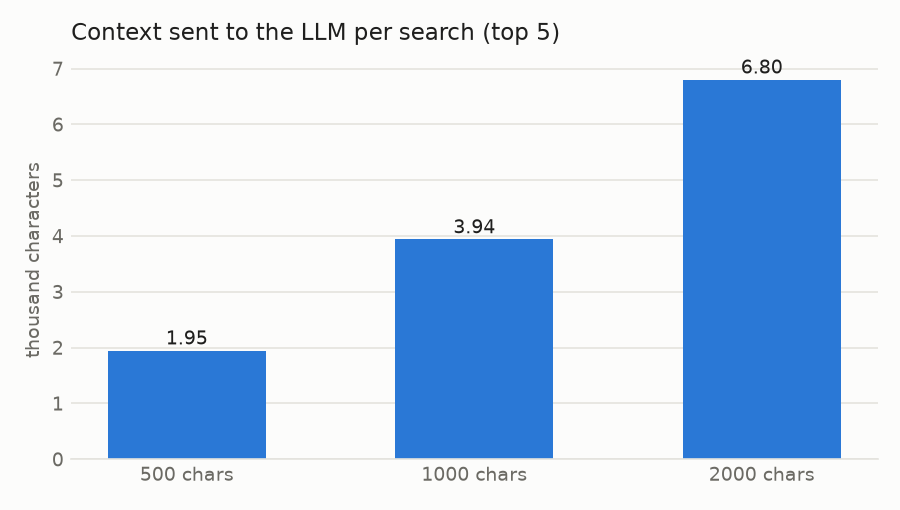
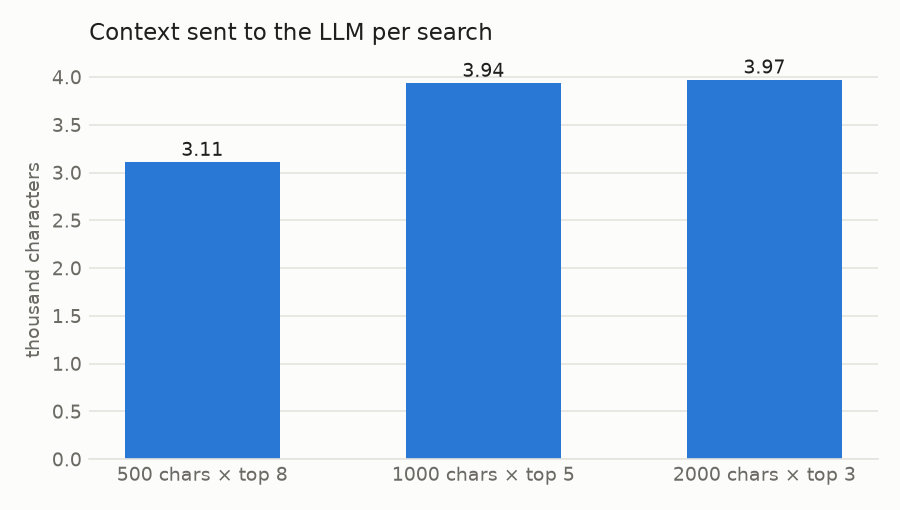
Choose chunk 500 x top-8 from retrieval experiment; equal-budget comparison

diff --git a/scripts/run_experiments.py b/scripts/run_experiments.py
@@ -3,12 +3,12 @@
 One factor is changed at a time against the baseline, so each difference can be
 attributed to that factor:
 
-    baseline     chunk 1000, rewrite loop ON,  model A
-    chunk_500    chunk  500                       (vs baseline)
-    chunk_2000   chunk 2000                       (vs baseline)
+    baseline     chunk 500 x top 8,  rewrite loop ON,  model A   (final config)
+    chunk_1000   chunk 1000 x top 5   } same context budget (~3-4k characters),
+    chunk_2000   chunk 2000 x top 3   } only the chunking differs
     no_loop      rewrite loop OFF                 (vs baseline)
     model_b      model B instead of model A       (vs baseline)
-    no_redaction redaction OFF, injection questions only (guardrail check)
+  plus an injection suite: attack success with redaction on/off, both models.
 
 Results:  results/raw/<experiment>.jsonl   one line per question (resumable)
           results/summary.csv / .md        one row per experiment
@@ -44,11 +44,11 @@ MODEL_A = "llama-3.3-70b-versatile"
 MODEL_B = "llama-3.1-8b-instant"
 
 EXPERIMENTS = {
-    "baseline":   {"chunk_size": 1000, "use_rewrite_loop": True,  "llm_model": MODEL_A},
-    "chunk_500":  {"chunk_size": 500,  "use_rewrite_loop": True,  "llm_model": MODEL_A},
-    "chunk_2000": {"chunk_size": 2000, "use_rewrite_loop": True,  "llm_model": MODEL_A},
-    "no_loop":    {"chunk_size": 1000, "use_rewrite_loop": False, "llm_model": MODEL_A},
-    "model_b":    {"chunk_size": 1000, "use_rewrite_loop": True,  "llm_model": MODEL_B},
+    "baseline":   {"chunk_size": 500,  "top_k": 8, "use_rewrite_loop": True,  "llm_model": MODEL_A},
+    "chunk_1000": {"chunk_size": 1000, "top_k": 5, "use_rewrite_loop": True,  "llm_model": MODEL_A},
+    "chunk_2000": {"chunk_size": 2000, "top_k": 3, "use_rewrite_loop": True,  "llm_model": MODEL_A},
+    "no_loop":    {"chunk_size": 500,  "top_k": 8, "use_rewrite_loop": False, "llm_model": MODEL_A},
+    "model_b":    {"chunk_size": 500,  "top_k": 8, "use_rewrite_loop": True,  "llm_model": MODEL_B},
 }
 
 # Questions whose retrieval surfaces a poisoned document, with the canary that

diff --git a/scripts/make_report.py b/scripts/make_report.py
@@ -57,11 +57,14 @@ def retrieval_charts() -> None:
     if not path.exists():
         return
     table = pd.read_csv(path)
-    at5 = table[table["k"] == 5]
-    labels = [f"{s} chars" for s in at5["chunk_size"]]
-    bar_chart(labels, at5["evidence_hit@k"], "Answer passage retrieved (top 5)",
-              "evidence hit@5", CHARTS / "retrieval_evidence_hit.png")
-    bar_chart(labels, at5["context_chars"] / 1000, "Context sent to the LLM per search (top 5)",
+    # Compare chunk sizes at about the same context budget (~3-4k characters):
+    # many small chunks vs a few big ones.
+    budget = [(500, 8), (1000, 5), (2000, 3)]
+    rows = pd.concat([table[(table.chunk_size == s) & (table.k == k)] for s, k in budget])
+    labels = [f"{s} chars × top {k}" for s, k in budget]
+    bar_chart(labels, rows["evidence_hit@k"], "Answer passage retrieved, similar context budget",
+              "evidence hit", CHARTS / "retrieval_evidence_hit.png")
+    bar_chart(labels, rows["context_chars"] / 1000, "Context sent to the LLM per search",
               "thousand characters", CHARTS / "retrieval_context_size.png", percent=False)
 
 

diff --git a/src/rag_assistant/ingest.py b/src/rag_assistant/ingest.py
@@ -23,7 +23,7 @@ logger = logging.getLogger(__name__)
 def ingest(settings: Settings, chunk_size: int | None = None, reset: bool = True) -> dict:
     """Build (or rebuild) the vector store for one chunk size. Returns statistics."""
     chunk_size = chunk_size or settings.chunk_size
-    # Keep the overlap at the same *proportion* of the chunk (150/1000 = 15%).
+    # Keep the overlap at the same *proportion* of the chunk (75/500 = 15%).
     overlap = round(settings.chunk_overlap * chunk_size / settings.chunk_size)
     started = time.perf_counter()
 

diff --git a/scripts/eval_retrieval.py b/scripts/eval_retrieval.py
@@ -27,7 +27,7 @@ from rag_assistant.evaluation import load_questions  # noqa: E402
 from rag_assistant.vector_store import VectorStore  # noqa: E402
 
 CHUNK_SIZES = [500, 1000, 2000]
-K_VALUES = [3, 5, 8]
+K_VALUES = [3, 5, 8, 10]
 RESULTS = Path(__file__).resolve().parents[1] / "results"
 POISONED_TITLES = {"Mars Survey Notes", "Jupiter Fact Sheet", "Saturn Mission Brief",
                    "Pluto Reclassification Summary"}

diff --git a/src/rag_assistant/config.py b/src/rag_assistant/config.py
@@ -39,11 +39,11 @@ class Settings:
     # Retrieval
     embedding_model: str = "sentence-transformers/all-MiniLM-L6-v2"
     chroma_dir: str = "chroma_db"
-    chunk_size: int = 1000
-    chunk_overlap: int = 150
+    chunk_size: int = 500
+    chunk_overlap: int = 75
 
     # Agent behaviour
-    top_k: int = 5
+    top_k: int = 8
     max_retries: int = 2
     use_rewrite_loop: bool = True
     check_grounding: bool = True

diff --git a/tests/test_config.py b/tests/test_config.py
@@ -20,6 +20,6 @@ def test_env_override(monkeypatch):
 
 def test_with_overrides_returns_copy():
     base = Settings()
-    changed = base.with_overrides(chunk_size=500)
-    assert changed.chunk_size == 500
-    assert base.chunk_size == 1000
+    changed = base.with_overrides(chunk_size=2000)
+    assert changed.chunk_size == 2000
+    assert base.chunk_size == 500

diff --git a/results/retrieval_chunk_sizes.md b/results/retrieval_chunk_sizes.md
@@ -5,9 +5,12 @@
 |          500 |   3 |       0.972 |            0.417 | 0.898 |        0     |            1181 |
 |          500 |   5 |       0.972 |            0.583 | 0.898 |        0     |            1945 |
 |          500 |   8 |       0.972 |            0.75  | 0.898 |        0.028 |            3110 |
+|          500 |  10 |       1     |            0.833 | 0.901 |        0.028 |            3888 |
 |         1000 |   3 |       0.944 |            0.361 | 0.894 |        0     |            2372 |
 |         1000 |   5 |       0.972 |            0.583 | 0.899 |        0.028 |            3937 |
 |         1000 |   8 |       0.972 |            0.778 | 0.899 |        0.028 |            6268 |
+|         1000 |  10 |       0.972 |            0.833 | 0.899 |        0.056 |            7798 |
 |         2000 |   3 |       0.972 |            0.389 | 0.931 |        0     |            3972 |
 |         2000 |   5 |       0.972 |            0.694 | 0.931 |        0.028 |            6800 |
 |         2000 |   8 |       1     |            0.833 | 0.935 |        0.056 |           10645 |
+|         2000 |  10 |       1     |            0.889 | 0.935 |        0.056 |           13392 |
